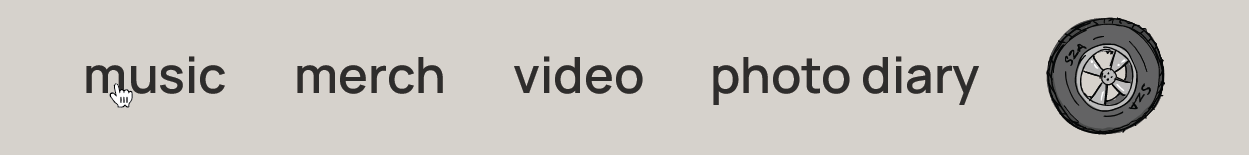
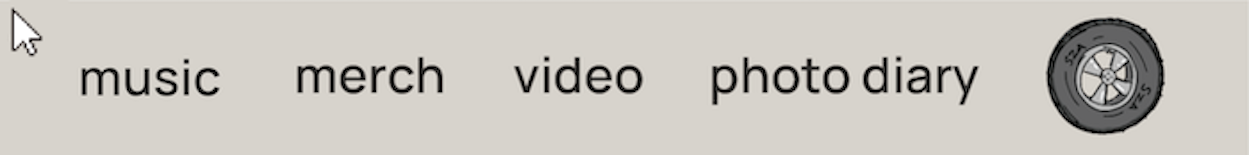
images

diff --git a/beta/index.html b/beta/index.html
@@ -40,11 +40,11 @@
                 
 
                             <ul>
-                                <li> mouse <b>hovering on</b> each menu item changes cursor to pointer + "heartbeat" pulse animation with scale</li>
-                                <div class="indent"> 
+                                <li> mouse <b>hovering on</b> each menu item changes cursor to pointer + color change animation</li>
+                                <!-- <div class="indent"> 
                                     <li>increase scale &#8594; reset scale &#8594; increase scale &#8594; reset scale &#8594; pause </li>
                                     <li>&#8634; restart </li>
-                                </div>
+                                </div> -->
                                 <li> mouse <b>hovering off</b> the entire microinteraction, tire moves right, and rotates 360° total. as mouse overlaps each menu item, menu item fades out to 0 opacity. </li>   
                             </ul>
             </div>
@@ -58,11 +58,11 @@
                 
 
                             <ul>
-                                <li> mouse <b>hovering on</b> each menu item changes cursor to pointer + "heartbeat" pulse animation with scale</li>
-                                <div class="indent"> 
+                                <li> mouse <b>hovering on</b> each menu item changes cursor to pointer + color change animation</li>
+                                <!-- <div class="indent"> 
                                     <li>increase scale &#8594; reset scale &#8594; increase scale &#8594; reset scale &#8594; pause </li>
                                     <li>&#8634; restart </li>
-                                </div>
+                                </div> -->
                                 <li> mouse <b>hovering off</b> the entire microinteraction, tire moves right, and rotates 360° total. as mouse overlaps each menu item, menu item fades out to 0 opacity. </li>   
                             </ul>
 
@@ -83,7 +83,7 @@
                 </div>
                 
                             <ul>
-                                <li>"heartbeat" pulse animation <b>loops</b> when mouse hovering on menu item, until mouse hovers off </li>          
+                                <li>n/a</li>          
                             </ul>
             </div>
 
@@ -92,13 +92,13 @@
     <div class="images">
         
         <div class="image__header">
-            <h4> hover on menu item : ("heartbeat" pulse animation) <br> example: hover on "music" menu item</h4>
+            <h4> hover on menu item : color changes <br> ex. color changes from dark gray to green when hovering on "music" menu item</h4>
         </div>
 
             <!--<h4> 1 </h4>--> <img src="images/hoverON/staticimages_hoverON_1.png" alt="microinteraction frame 1" > <br>
             <!--<h4> 2 </h4>--> <img src="images/hoverON/staticimages_hoverON_2.png" alt="microinteraction frame 2" > <br>
-            <!--<h4> 3 </h4>--> <img src="images/hoverON/staticimages_hoverON_3.png" alt="microinteraction frame 3" > <br>
-            <!--<h4> 4 </h4>--> <img src="images/hoverON/staticimages_hoverON_4.png" alt="microinteraction frame 4" > <br>
+            <!--<h4> 3 </h4>--> <img src="images/hoverON/staticimages_hoverON_1.png" alt="microinteraction frame 3" > <br>
+            <!-- <h4> 4 </h4> <img src="images/hoverON/staticimages_hoverON_4.png" alt="microinteraction frame 4" > <br> -->
 
             <div class="image__header">
                 <h4> hover off menu nav section : (wheel roll & fade-out) </h4>
